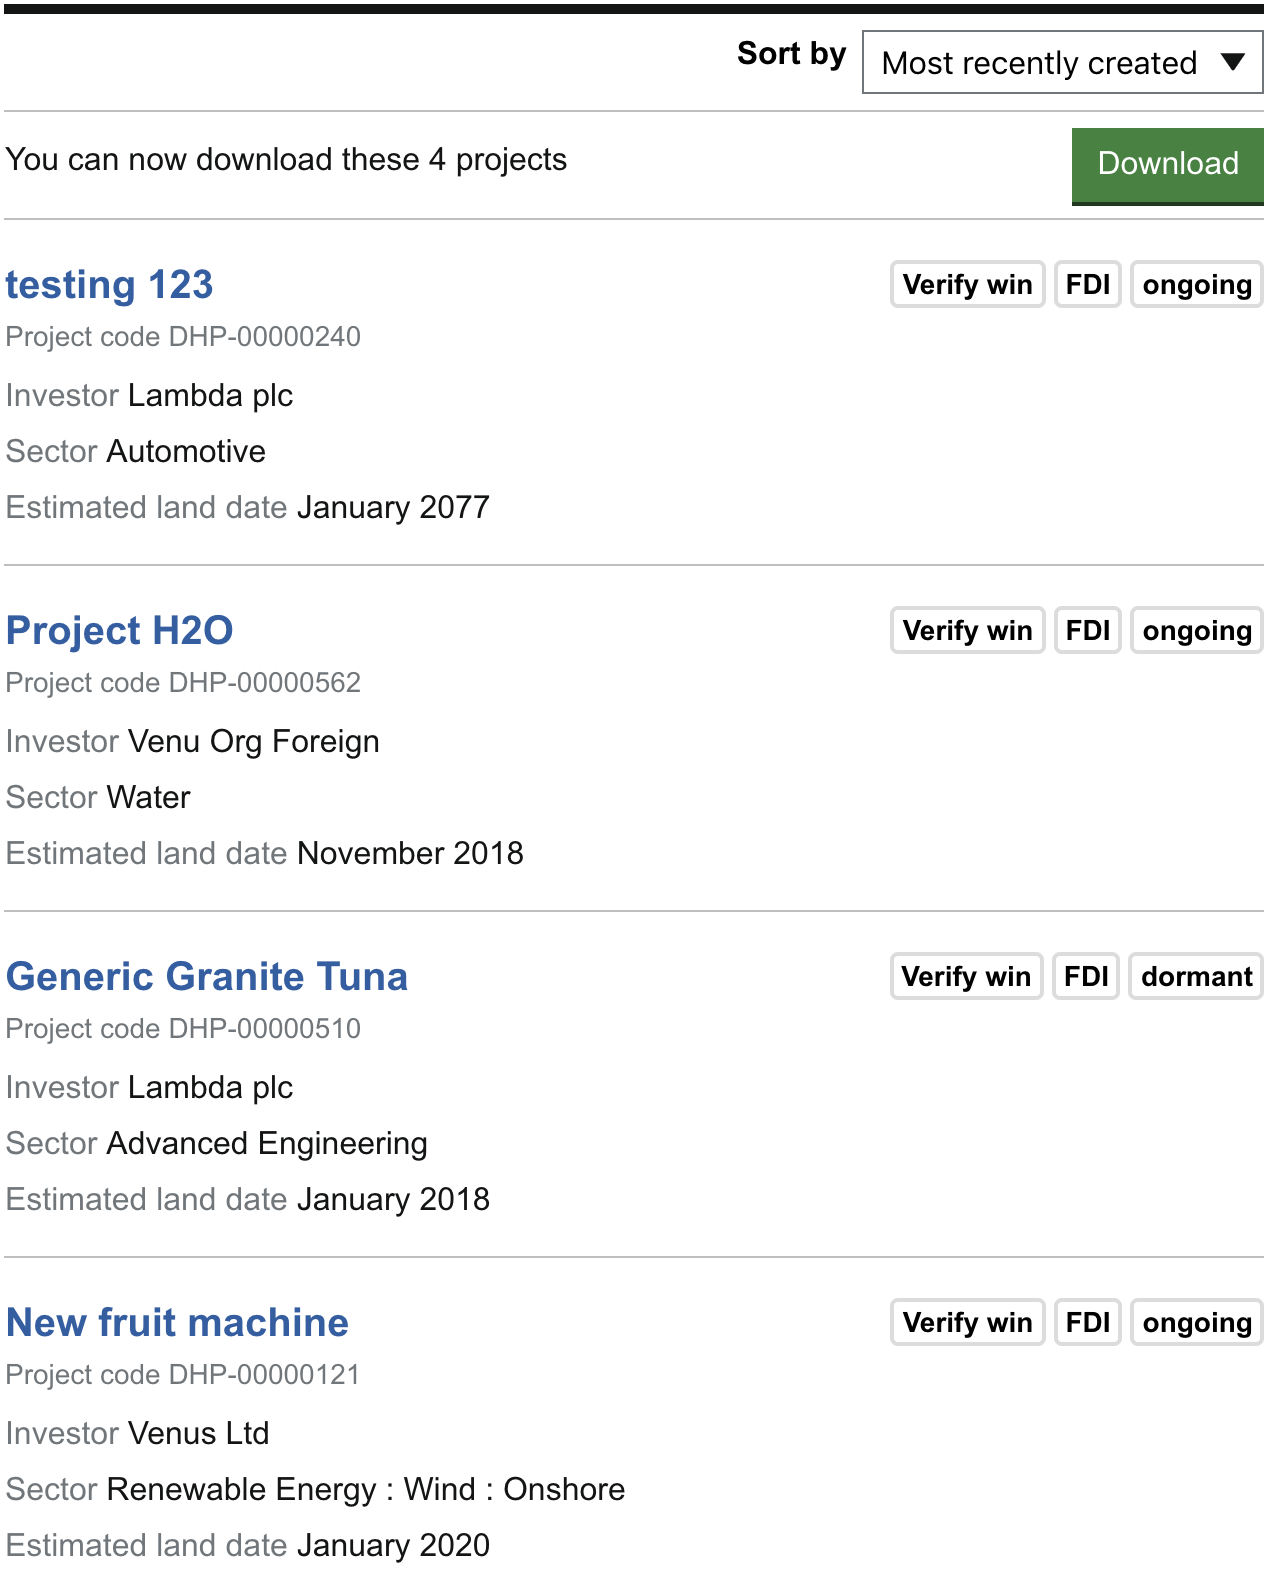
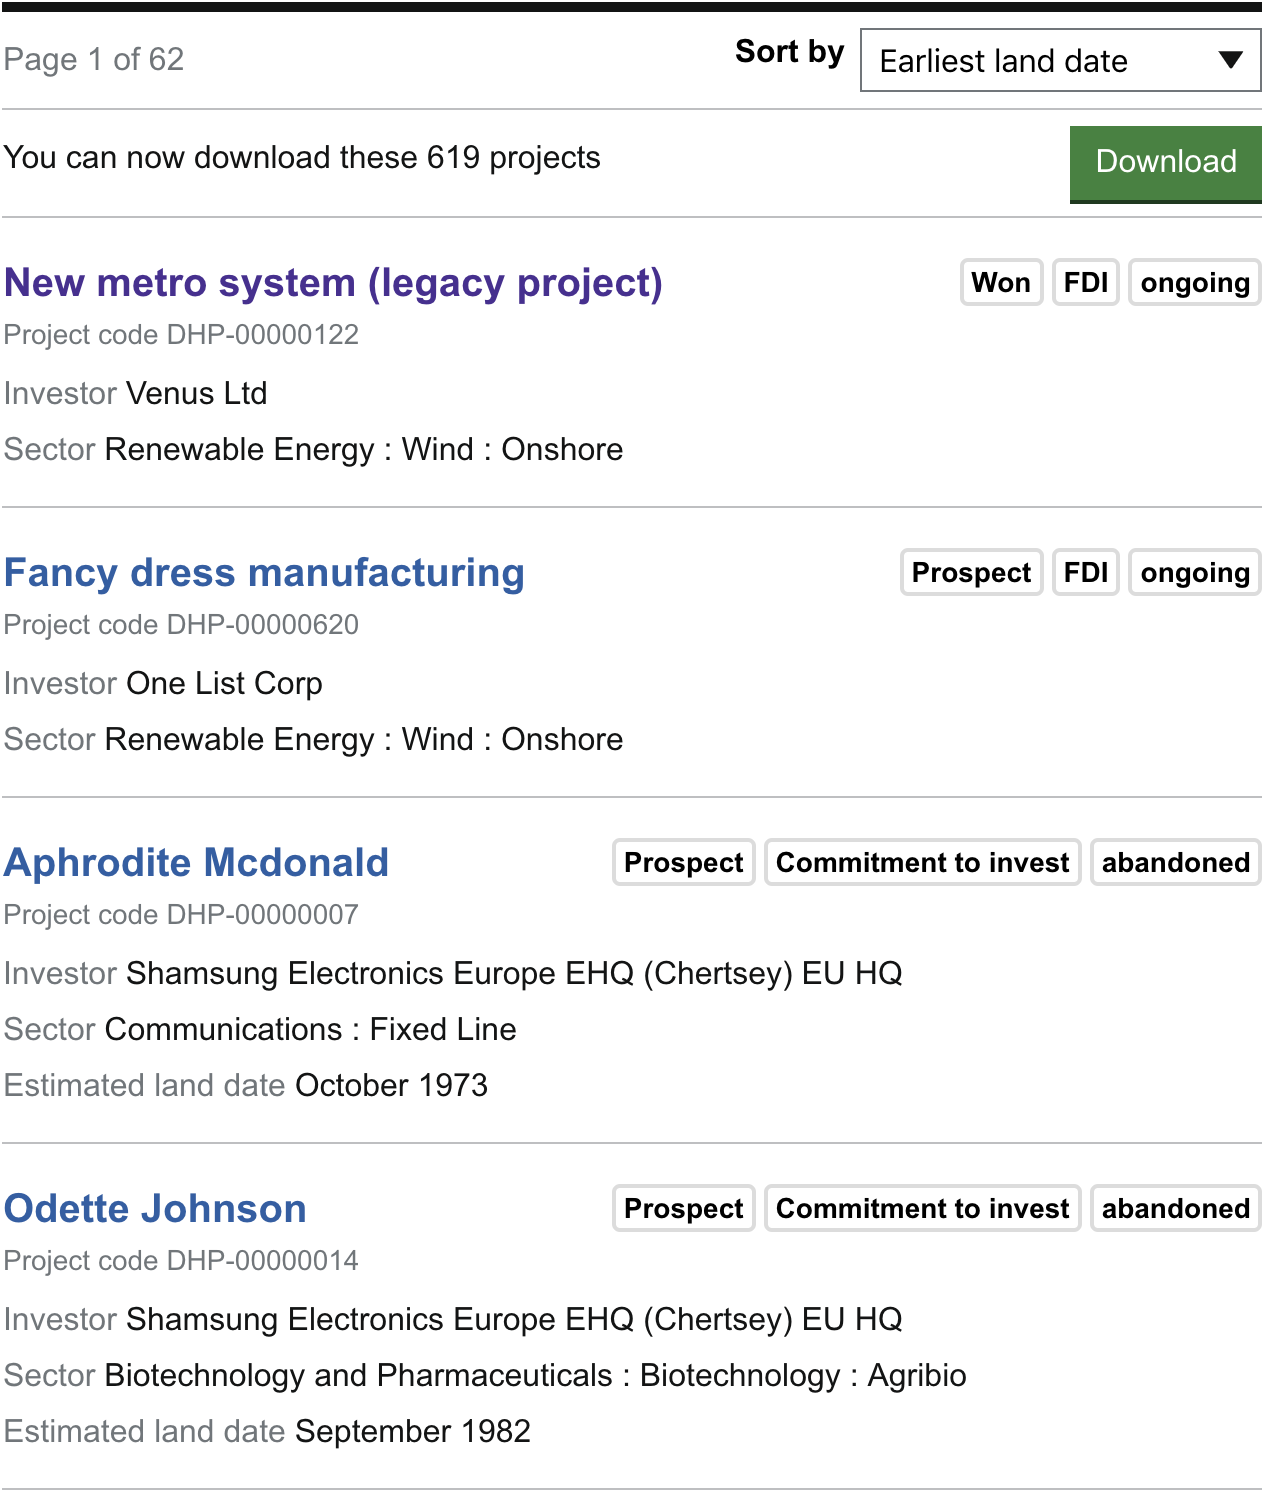
Adding a navigation horizontal list
* Nav horizontal list
* Modified the GOV.UK header
* Added a horizontal list of Data Hub apps
* Beefed out the Investment Projects list by adding more projects to it
  appears there are no filters applied.

diff --git a/app/templates/investment-projects.html b/app/templates/investment-projects.html
@@ -5,7 +5,14 @@ Investment Projects
 {% endblock %}
 
 {% block content %}
-<div class="govuk-grid-row investment-projects">
+<img src="/assets/images/horizontal-app-list.png" class="img-horizontal-app-list">
+<nav>
+  <ul>
+    <li><a href="/">Home</span></a></li>
+    <li><span>Investment projects</span></li>
+  </ul>
+</nav>
+<div class="govuk-grid-row">
   <div class="govuk-grid-column-one-third">
     <div class="ip-filters">
       <img src="/assets/images/stage.png">
@@ -17,12 +24,13 @@ Investment Projects
     <div class="ip-list-container">
       <div class="header">
         <div>
-          <span>4</span>
+          <span>619</span>
           <span>projects</span>
         </div>
         <a class="button" href="/new-project">New Project</a>
       </div>
       <img src="/assets/images/project-list.png">
+      <img src="/assets/images/project-list-contd.png">
     </div>
   </div>
 </div>

diff --git a/app/templates/index.html b/app/templates/index.html
@@ -5,13 +5,17 @@
 {% endblock %}
 
 {% block content %}
-  <h1 class="govuk-heading-xl">Investment Projects Prototype</h1>
-  <ul>
-    <li>
-      <h2 class="govuk-heading-m">Sprint 4 - current sprint</h2>
-      <ul>
-        <li><a href="/investment-projects">New Project</a></li>
-      </ul>
-    </li>
-  </ul>
+<div class="govuk-grid-row">
+  <div class="govuk-grid-column-full">
+    <h1 class="govuk-heading-xl heading">Investment Projects Prototype</h1>
+    <ul>
+      <li>
+        <h2 class="govuk-heading-m">Sprint 4 - current sprint</h2>
+        <ul>
+          <li><a href="/investment-projects">New Project</a></li>
+        </ul>
+      </li>
+    </ul>
+  </div>
+</div>
 {% endblock %}

diff --git a/app/templates/new-project.html b/app/templates/new-project.html
@@ -5,5 +5,17 @@ New Project
 {% endblock %}
 
 {% block content %}
-<h1 class="">New Project</h1>
+<img src="/assets/images/horizontal-app-list.png" class="img-horizontal-app-list">
+<nav>
+  <ul>
+    <li><a href="/">Home</span></a></li>
+    <li><a href="/investment-projects">Investment projects</a></li>
+    <li><span>New Project</span></li>
+  </ul>
+</nav>
+<div class="govuk-grid-row">
+  <div class="govuk-grid-column-two-thirds">
+    <h1>Project details</h1>
+  </div>
+</div>
 {% endblock %}

diff --git a/app/assets/styles/scss/main.scss b/app/assets/styles/scss/main.scss
@@ -1,7 +1,28 @@
 @import "../../../../node_modules/govuk-frontend/all";
+@import "govuk-overrides";
 @import "button";
 @import "investment-projects";
 
 body {
   font-family: Arial, "Helvetica Neue", sans-serif;
+}
+
+.img-horizontal-app-list {
+  width: 960px;
+}
+
+nav {
+  ul {
+    padding-left: 0;
+    li {
+      display: inline;
+      &:not(:first-child) {
+        &:before {
+          content: '>';
+          padding: 0 5px;
+          color: #b5b2b2;
+        }
+      }
+    }
+  }
 }

diff --git a/app/assets/styles/scss/_govuk-overrides.scss b/app/assets/styles/scss/_govuk-overrides.scss
@@ -1,0 +1,22 @@
+.govuk-header {
+  border-bottom: 0;
+  .govuk-header__container {
+    margin-bottom: 0;
+    border-bottom: 0;
+  }
+}
+
+.govuk-main-wrapper {
+  padding-top: 0;
+}
+
+.heading {
+  margin-top: 30px;
+}
+
+.govuk-tag {
+  padding: 2px 4px 0 4px;
+  position: absolute;
+  top: 13px;
+  left: 140px;
+}
